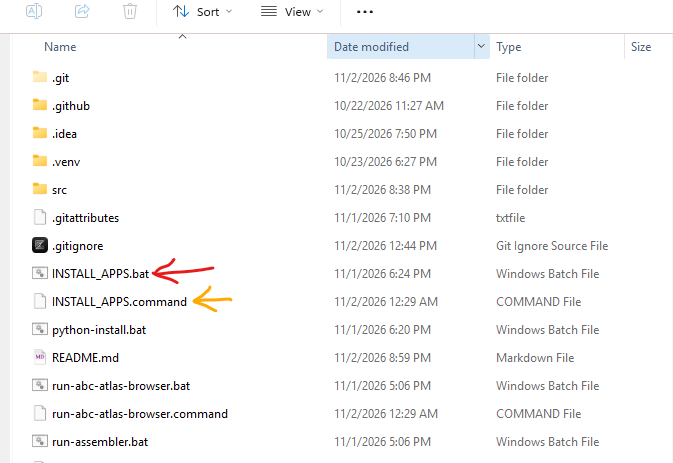
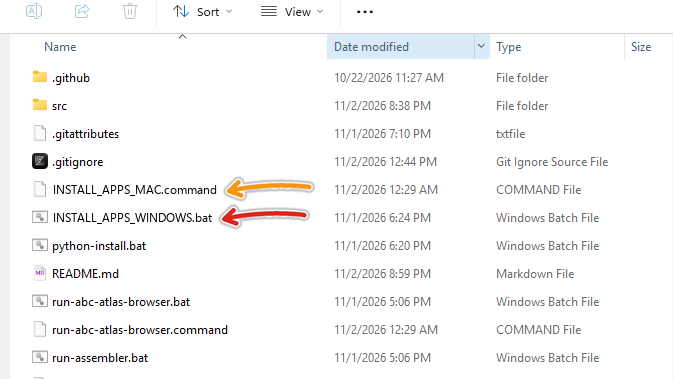
Installers and uninstallers named by platform
INSTALL_APPS_WINDOWS.bat, INSTALL_APPS_MAC.command, UNINSTALL_APPS_WINDOWS.bat
and UNINSTALL_APPS_MAC.command; every mention updated. README's Install.png
shows the new names, without .git, .idea and .venv (which a ZIP download
doesn't have).

diff --git a/src/icons/make_icons.py b/src/icons/make_icons.py
@@ -1,4 +1,4 @@
-"""Draws the launcher icons (xlef_viewer.ico, ccf_browser.ico, abc_atlas_browser.ico, section_assembler.ico) that INSTALL_APPS.bat gives the shortcuts.
+"""Draws the launcher icons (xlef_viewer.ico, ccf_browser.ico, abc_atlas_browser.ico, section_assembler.ico) that INSTALL_APPS_WINDOWS.bat gives the shortcuts.
 The .ico files are kept in the repository, so this only needs running again to change a design:  python icons/make_icons.py"""
 import os
 import random
@@ -153,7 +153,7 @@ if __name__ == "__main__":
         big = draw()
         big.resize((256, 256), Image.LANCZOS).save(os.path.join(HERE, name + ".ico"), sizes=SIZES)
         # macOS: icons sit within a margin of the square (Apple's grid: 824 of 1024 pixels), as an .icns for the app made by
-        # INSTALL_APPS.command, and a .png that the program sets as its Dock icon when it starts (see app_identity.py)
+        # INSTALL_APPS_MAC.command, and a .png that the program sets as its Dock icon when it starts (see app_identity.py)
         mac = Image.new("RGBA", (BIG, BIG), (0, 0, 0, 0))
         mac.alpha_composite(big.resize((824, 824), Image.LANCZOS), (100, 100))
         mac.save(os.path.join(HERE, name + ".icns"))

diff --git a/src/app_identity.py b/src/app_identity.py
@@ -9,7 +9,7 @@ program's icon from the icons folder.
 On macOS there is no such ID: the Dock shows a running program as the app it belongs to, here Python. Each program only sets the Dock
 icon to its own (from the .png in the icons folder), so the running program looks right, though still named "Python".
 
-For a program started with pythonw.exe (no console window), or on macOS from its app made by INSTALL_APPS.command (which sets
+For a program started with pythonw.exe (no console window), or on macOS from its app made by INSTALL_APPS_MAC.command (which sets
 JHOULAB_WINDOWLESS=1), output and errors would vanish: use_windowless_log sends them to a log file and shows errors in a message box."""
 import os
 import sys

diff --git a/README.md b/README.md
@@ -6,7 +6,7 @@ The fastest way to get started is to click the green "CODE" button above, then c
 
 <p align="center"><img src="src/readme_images/download_zip.png" width="361" alt="The green Code button on GitHub, and Download ZIP in the menu it opens"></p>
 
-Unzip the download, then double click `INSTALL_APPS.bat` on Windows (red arrow below), or `INSTALL_APPS.command` on Mac (orange arrow).
+Unzip the download, then double click `INSTALL_APPS_WINDOWS.bat` on Windows (red arrow below), or `INSTALL_APPS_MAC.command` on Mac (orange arrow).
 
 <p align="center"><img src="src/readme_images/Install.png" width="471" alt="Double click the installer"></p>
 
@@ -20,14 +20,14 @@ The first time each app starts, it sets itself up: it installs Python if the com
 this folder. This takes a few minutes and needs an internet connection, and it leaves any Python you already have alone. Later starts are quick.
 
 **On a Mac**, install Python 3.13 from [python.org](https://www.python.org/downloads/) first. The first time you open
-`INSTALL_APPS.command`, right-click it and choose Open: macOS asks before running a script it hasn't seen before.
+`INSTALL_APPS_MAC.command`, right-click it and choose Open: macOS asks before running a script it hasn't seen before.
 
 **Windows may warn** "Windows protected your PC" the first time you run one of the stand-alone `.exe` programs below, because they are not code-signed: choose More info, then Run anyway.
 
 ### Updating and uninstalling
 
 - **Update:** in the xlef viewer, choose Update > Update from GitHub. It shows what's new and updates all tools at once.
-- **Uninstall:** Windows Settings > Apps > "Brain anatomy tools", or double-click `UNINSTALL_APPS.bat` (`UNINSTALL_APPS.command` on a
+- **Uninstall:** Windows Settings > Apps > "Brain anatomy tools", or double-click `UNINSTALL_APPS_WINDOWS.bat` (`UNINSTALL_APPS_MAC.command` on a
   Mac). It asks before removing anything large, and never touches your images, projects or results.
 
 Most buttons and controls explain themselves when you hover the mouse over them.
@@ -110,7 +110,7 @@ download it again.
 - The first `.bat` run finds Python (installing Python 3.13 for this user if there is none) and builds a private environment, `.venv`,
   in this folder (`.venv-macos` on a Mac, so that a folder shared with Windows can keep both). All the tools share it. It is about 300 MB,
   and grows to about 1.1 GB once the ABC browser has installed its libraries.
-- `INSTALL_APPS` makes the shortcuts (Windows: desktop and Start menu, and an entry in Settings > Apps; Mac: apps in `~/Applications`).
+- `INSTALL_APPS_WINDOWS.bat` and `INSTALL_APPS_MAC.command` make the shortcuts (Windows: desktop and Start menu, and an entry in Settings > Apps; Mac: apps in `~/Applications`).
   Run it again after moving this folder. The icons are drawn by `src/icons/make_icons.py`.
 - The xlef viewer and CCF browser run without a console window; their output goes to `%LOCALAPPDATA%\JhouLab\logs`
   (`~/Library/Logs/JhouLab` on a Mac), and errors are shown in a message box.
